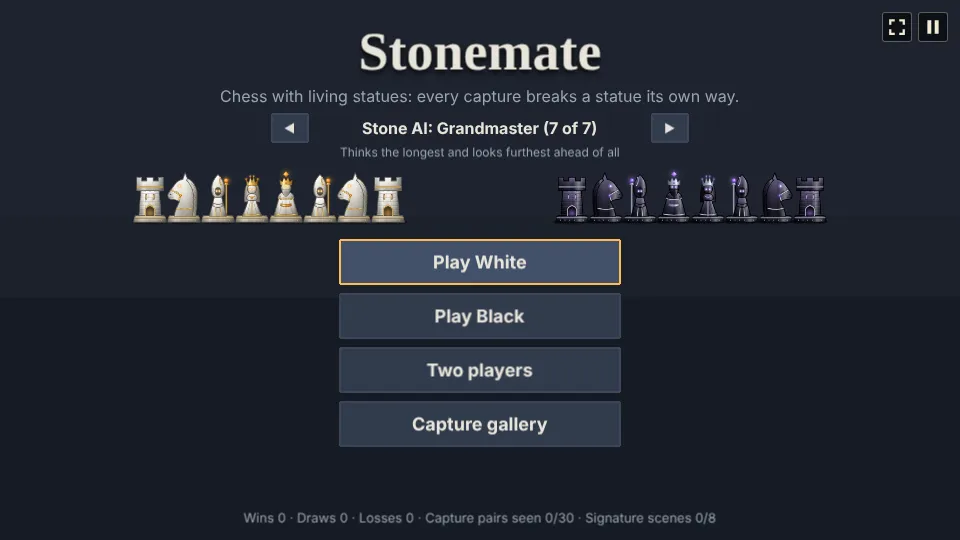
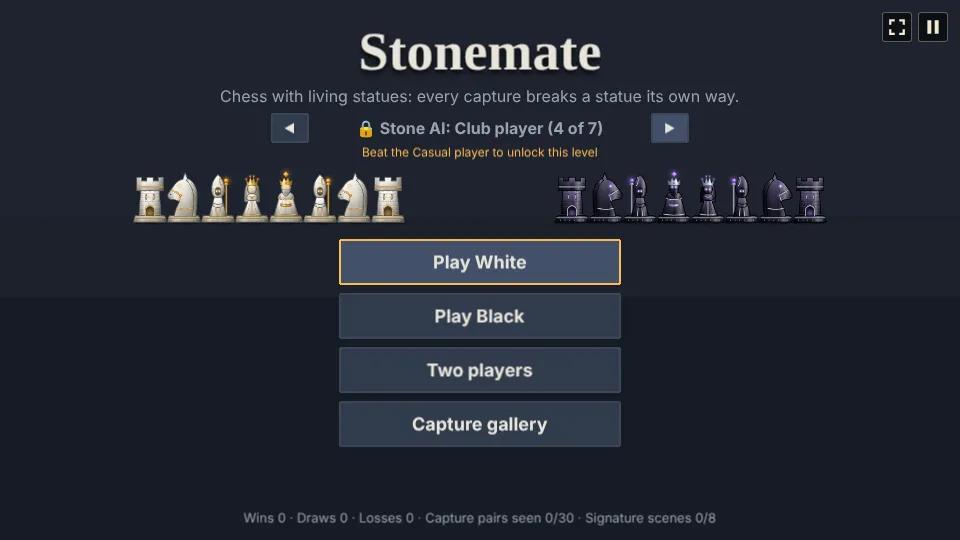
Stonemate: unlock each AI level above 3 by beating the one below
Levels 1 to 3 stay open; Club player, Expert, Master and Grandmaster each open once the level
below is beaten (the strongest level beaten is kept as `best` in the stats). A locked level shows
a lock and which level to beat, Play White and Play Black refuse it, and a win that opens a level
says so and moves the menu's pick up to it.

Requested by **Chriszly**

Created with Claude Opus 5.5 (low)

Changed region(s): [[0.3438, 0.2074, 0.6562, 0.2963], [0.6562, 0.2074, 0.7188, 0.2667]]

diff --git a/games/stonemate/src/scenes/GameScene.ts b/games/stonemate/src/scenes/GameScene.ts
@@ -6,7 +6,7 @@ import { award } from '../../../../shared/trophies';
 import { SFX, SONG } from '../audio';
 import { chooseMove } from '../game/ai';
 import { KINDS, type Kind, type Move, Flag, Position, type Result, type Side, VICTIMS, kindOf, moveText, sideOf } from '../game/chess';
-import { HARD_LEVEL, LEVELS, PAIR_COUNT, QUICK_MATE, SIGNATURES, clampLevel, type LevelId, pairKey } from '../game/rules';
+import { HARD_LEVEL, LEVELS, PAIR_COUNT, QUICK_MATE, SIGNATURES, clampLevel, type LevelId, pairKey, unlockedLevel } from '../game/rules';
 import { thinkDeep } from '../game/think';
 import { type Mode, type Stats, loadGame, loadStats, saveGame, saveStats } from '../game/save';
 import { t, type TextKey } from '../i18n';
@@ -100,7 +100,8 @@ export class GameScene extends Phaser.Scene {
     }
     this.quick = prefs.quick === true;
     // Until a level is picked on the menu, the hub's difficulty picks it.
-    this.level = clampLevel(prefs.level);
+    // A locked level can't be the pick (the hub's Hard picks 4 before 3 is beaten).
+    this.level = Math.min(clampLevel(prefs.level), unlockedLevel(this.stats.best));
     this.input.on('pointerdown', (p: Phaser.Input.Pointer, over: Phaser.GameObjects.GameObject[]) => {
       if (!over.length) this.onBoardTap(p.worldX, p.worldY);
     });
@@ -116,6 +117,8 @@ export class GameScene extends Phaser.Scene {
       mode: this.mode,
       player: this.player,
       level: this.gameLevel,
+      /** The highest level open to play: 3, then one past the strongest level beaten. */
+      unlocked: unlockedLevel(this.stats.best),
       turn: this.pos.turn,
       plies: this.pos.history.length,
       busy: this.busy,
@@ -187,8 +190,8 @@ export class GameScene extends Phaser.Scene {
     const saved = loadGame();
     const ids: [string, string, () => void][] = [];
     if (saved && saved.moves.length) ids.push(['continue', t('continue', { n: Math.ceil(saved.moves.length / 2) }), () => this.startGame(saved.mode, saved.player, saved.moves, saved.level)]);
-    ids.push(['play-white', t('playWhite'), () => this.startGame('ai', 'w')]);
-    ids.push(['play-black', t('playBlack'), () => this.startGame('ai', 'b')]);
+    ids.push(['play-white', t('playWhite'), () => this.startAi('w')]);
+    ids.push(['play-black', t('playBlack'), () => this.startAi('b')]);
     ids.push(['two-players', t('twoPlayers'), () => this.startGame('duo', 'w')]);
     ids.push(['gallery', t('gallery'), () => this.showGallery()]);
     const gap = Math.min(54, (this.H - 290) / ids.length);
@@ -205,8 +208,11 @@ export class GameScene extends Phaser.Scene {
     const blurb = this.text(cx, y + 24, '', 12, C.dim).setOrigin(0.5);
     const show = () => {
       const id = LEVELS[this.level - 1].id;
-      name.setText(t('levelLine', { level: t(LEVEL_TEXT[id]), n: this.level, of: LEVELS.length }));
-      blurb.setText(t(LEVEL_BLURB[id]));
+      const locked = this.level > unlockedLevel(this.stats.best);
+      name.setText(t(locked ? 'levelLocked' : 'levelLine', { level: t(LEVEL_TEXT[id]), n: this.level, of: LEVELS.length }));
+      name.setColor(hex(locked ? C.dim : C.ink));
+      blurb.setText(locked ? t('unlockHint', { level: t(LEVEL_TEXT[LEVELS[this.level - 2].id]) }) : t(LEVEL_BLURB[id]));
+      blurb.setColor(hex(locked ? C.amber : C.dim));
     };
     const step = (by: number) => {
       const next = this.level + by;
@@ -229,6 +235,15 @@ export class GameScene extends Phaser.Scene {
     } catch {
       // Not saved; the choice still holds for this visit.
     }
+  }
+
+  /** A new game against the Stone AI at the menu's level, unless that level is still locked. */
+  private startAi(player: Side) {
+    if (this.level > unlockedLevel(this.stats.best)) {
+      ui('refuse');
+      return;
+    }
+    this.startGame('ai', player);
   }
 
   startGame(mode: Mode, player: Side, moves: string[] = [], level = this.level) {
@@ -554,6 +569,8 @@ export class GameScene extends Phaser.Scene {
 
   private finish() {
     saveGame(null);
+    /** The level this win just opened, by name. */
+    let unlocked = '';
     const r = this.result!;
     const s = this.stats;
     if (this.mode === 'ai') {
@@ -565,6 +582,18 @@ export class GameScene extends Phaser.Scene {
         if (mine <= QUICK_MATE) this.trophy('quickMate');
         if (this.gameLevel >= HARD_LEVEL) this.trophy('hardWin');
         if (this.gameLevel === LEVELS.length) this.trophy('grandmasterWin');
+        // Beating a level opens the next one (from level 3 up).
+        const before = unlockedLevel(s.best);
+        s.best = Math.max(s.best, this.gameLevel);
+        const now = unlockedLevel(s.best);
+        if (now > before) {
+          unlocked = t(LEVEL_TEXT[LEVELS[now - 1].id]);
+          // The menu's arrows move on to the new level too.
+          if (this.level < now) {
+            this.level = now;
+            this.savePrefs();
+          }
+        }
       } else s.losses++;
       saveStats(s);
     }
@@ -574,7 +603,8 @@ export class GameScene extends Phaser.Scene {
     const cx = this.board.x + 4 * S;
     const cy = this.board.y + 4 * S;
     const bg = this.add.rectangle(cx, cy, S * 5.6, S * 2.2, C.panel, 0.94).setStrokeStyle(2, C.amber).setDepth(190);
-    const txt = this.text(cx, cy - S * 0.5, this.statusLine(), 20, C.ink, { fontStyle: 'bold', align: 'center', wordWrap: { width: S * 5.2 } }).setOrigin(0.5).setDepth(191);
+    const line = unlocked ? `${this.statusLine()}\n${t('unlockedNow', { level: unlocked })}` : this.statusLine();
+    const txt = this.text(cx, cy - S * 0.5, line, unlocked ? 17 : 20, C.ink, { fontStyle: 'bold', align: 'center', wordWrap: { width: S * 5.2 } }).setOrigin(0.5).setDepth(191);
     this.add.container(0, 0, [bg, txt]).setDepth(190);
     this.button('new-game', cx - S * 1.3, cy + S * 0.5, S * 2.4, 40, t('newGame'), () => this.startGame(this.mode, this.player), true);
     this.button('result-menu', cx + S * 1.3, cy + S * 0.5, S * 2.4, 40, t('menu'), () => this.showMenu());

diff --git a/games/stonemate/src/howToPlay.ts b/games/stonemate/src/howToPlay.ts
@@ -23,7 +23,7 @@ const en: HowToPlay = {
     'Eight pairs have a scene of their own, like a pawn toppling a queen or two knights jousting: the gallery marks them with a star.',
     'A pawn on the far row becomes a queen, rook, bishop or knight of your choice.',
     'Castle by moving your king two squares towards a rook that has not moved yet.',
-    'Pick the Stone AI’s level with the arrows on the menu, from Beginner to Grandmaster; the hub’s difficulty picks the first one.',
+    'Pick the Stone AI’s level with the arrows on the menu, from Beginner to Grandmaster. The first three are open; beat a level to unlock the next.',
     'A game is saved after every move, so Continue on the menu picks it up again.',
   ],
 };
@@ -50,7 +50,7 @@ const de: HowToPlay = {
     'Acht Paare haben eine eigene Szene, etwa ein Bauer, der eine Dame stürzt, oder zwei Springer im Tjost: Die Galerie markiert sie mit einem Stern.',
     'Ein Bauer auf der letzten Reihe wird zu Dame, Turm, Läufer oder Springer deiner Wahl.',
     'Rochiere, indem du den König zwei Felder auf einen Turm zu ziehst, der noch nicht gezogen hat.',
-    'Wähle die Stufe der Stein-KI mit den Pfeilen im Menü, vom Anfänger bis zum Großmeister; die Schwierigkeit der Startseite wählt die erste.',
+    'Wähle die Stufe der Stein-KI mit den Pfeilen im Menü, vom Anfänger bis zum Großmeister. Die ersten drei sind offen; besiege eine Stufe, um die nächste freizuschalten.',
     'Eine Partie wird nach jedem Zug gespeichert, also setzt Fortsetzen im Menü sie wieder fort.',
   ],
 };

diff --git a/games/stonemate/src/game/save.ts b/games/stonemate/src/game/save.ts
@@ -25,6 +25,8 @@ export interface Stats {
   pairs: string[];
   /** Signature scenes seen in play, by id. */
   scenes: string[];
+  /** The strongest AI level beaten (0 for none), which opens the level above it. */
+  best: number;
 }
 
 const GAME_KEY = 'stonemate-game';
@@ -55,6 +57,6 @@ export const saveGame = (g: SavedGame | null) => write(GAME_KEY, g);
 
 export function loadStats(): Stats {
   const s = read<Partial<Stats>>(STATS_KEY) ?? {};
-  return { wins: s.wins ?? 0, losses: s.losses ?? 0, draws: s.draws ?? 0, pairs: s.pairs ?? [], scenes: s.scenes ?? [] };
+  return { wins: s.wins ?? 0, losses: s.losses ?? 0, draws: s.draws ?? 0, pairs: s.pairs ?? [], scenes: s.scenes ?? [], best: typeof s.best === 'number' ? s.best : 0 };
 }
 export const saveStats = (s: Stats) => write(STATS_KEY, s);

diff --git a/games/stonemate/src/game/rules.ts b/games/stonemate/src/game/rules.ts
@@ -27,6 +27,12 @@ export const defaultLevel = () => byDifficulty(2, 3, 4);
 /** Clamps a stored level number to 1 to 7. */
 export const clampLevel = (n: unknown) => (typeof n === 'number' && Number.isInteger(n) ? Math.min(LEVELS.length, Math.max(1, n)) : defaultLevel());
 
+/** Levels 1 to 3 are always open; each one above opens once the level below it is beaten. */
+export const OPEN_LEVELS = 3;
+
+/** The highest level open to play, given the strongest level beaten (0 for none). */
+export const unlockedLevel = (best: number) => Math.min(LEVELS.length, Math.max(OPEN_LEVELS, best + 1));
+
 /** Beating this level or a stronger one earns `hardWin` (Club player, the old Hard). */
 export const HARD_LEVEL = 4;
 

diff --git a/games/stonemate/src/i18n/de.ts b/games/stonemate/src/i18n/de.ts
@@ -6,6 +6,9 @@ const de: Translation<typeof en> = {
   title: 'Stonemate',
   tagline: 'Schach mit lebenden Statuen: Jeder Schlag zerbricht eine Statue auf eigene Art.',
   levelLine: 'Stein-KI: {level} ({n} von {of})',
+  levelLocked: '🔒 Stein-KI: {level} ({n} von {of})',
+  unlockHint: 'Freischalten: {level} besiegen',
+  unlockedNow: 'Freigeschaltet: {level}',
   levelBeginner: 'Anfänger',
   levelNovice: 'Neuling',
   levelCasual: 'Gelegenheitsspieler',

diff --git a/games/stonemate/src/i18n/en.ts b/games/stonemate/src/i18n/en.ts
@@ -3,6 +3,9 @@ const en = {
   title: 'Stonemate',
   tagline: 'Chess with living statues: every capture breaks a statue its own way.',
   levelLine: 'Stone AI: {level} ({n} of {of})',
+  levelLocked: '🔒 Stone AI: {level} ({n} of {of})',
+  unlockHint: 'Beat the {level} to unlock this level',
+  unlockedNow: 'Unlocked: {level}',
   levelBeginner: 'Beginner',
   levelNovice: 'Novice',
   levelCasual: 'Casual player',

diff --git a/games/stonemate/AGENTS.md b/games/stonemate/AGENTS.md
@@ -14,7 +14,12 @@ the game, and keep it up to date in the same PR as the change (see the root `AGE
   capture or pawn move) and threefold repetition.
 - **Stone AI levels:** seven, in `LEVELS` (`game/rules.ts`), picked on the menu with the
   `level-down` and `level-up` arrows and saved as `level` in `stonemate-prefs`. Until one is picked,
-  `defaultLevel()` follows the hub's difficulty: Easy is 2, Normal 3, Hard 4. A game keeps the level
+  `defaultLevel()` follows the hub's difficulty: Easy is 2, Normal 3, Hard 4. Levels 1 to 3
+  (`OPEN_LEVELS`) are always open; each one above opens when the player beats the level below it
+  (`unlockedLevel(stats.best)`). The arrows still step onto a locked level, which shows a lock and
+  the level to beat, and Play White and Play Black refuse it (`startAi`); a pick above the open
+  levels is lowered to the highest open one at boot. A win that opens a level says so in the result
+  box and moves the menu's pick up to it. A game keeps the level
   it started on (`gameLevel`, saved with the game). The names are Beginner, Novice, Casual player, Club player, Expert, Master and Grandmaster. Each level beat the
   one below it in AI-against-AI matches (a throwaway script, not in the repo).
 - **Levels 1 to 4** (`game/ai.ts`, `shallow` in `LEVELS`): negamax with alpha-beta, material plus
@@ -80,7 +85,8 @@ the game, and keep it up to date in the same PR as the change (see the root `AGE
 
 - `stonemate-game`: the game under way, `{ mode: 'ai' | 'duo', player: 'w' | 'b', level: 1-7, moves: ['e2e4', ...] }`;
   removed when a game ends. A save from before the levels has no `level` and plays the menu's.
-- `stonemate-stats`: `{ wins, losses, draws, pairs: ['nb', ...], scenes: ['joust', ...] }`.
+- `stonemate-stats`: `{ wins, losses, draws, pairs: ['nb', ...], scenes: ['joust', ...], best }`,
+  `best` being the strongest AI level beaten (0 for none), which opens the levels above 3.
 - `stonemate-prefs`: `{ quick, level }`, the Captures button and the menu's AI level.
 - `stonemate-trophies`: kept by `shared/trophies.ts`.
 
@@ -88,7 +94,7 @@ the game, and keep it up to date in the same PR as the change (see the root `AGE
 
 The dev build puts `game` on `window`; the playthrough reads `game.scene.getScene('Game')`:
 
-- `state`: `screen`, `mode`, `player`, `level` (the game's AI level), `turn`, `plies`, `busy`, `selected`, `result`, `inCheck`,
+- `state`: `screen`, `mode`, `player`, `level` (the game's AI level), `unlocked` (the highest open level), `turn`, `plies`, `busy`, `selected`, `result`, `inCheck`,
   `captures`, `lastCapture`, `promo`, and `legal` (the legal moves as `e2e4` text while a person is to
   move).
 - `buttons`: every button by id (`level-down`, `level-up`, `play-white`, `play-black`, `two-players`, `gallery`, `continue`,

diff --git a/README.md b/README.md
@@ -78,7 +78,7 @@ The hub's **Settings** button opens the settings every game shares. They are sav
   | Ninefold | 5 hints a Classic board, 4 hearts a Delve run | 2 hints a Classic board, 2 hearts a Delve run |
   | Augury | 4 hearts in Endless and the drafts, 4 minutes of Blitz | 2 hearts in Endless and the drafts, 2½ minutes of Blitz |
   | Mazewright | 25 cabbages, and foes have 20% less health | 10 cabbages, and foes have 25% more health |
-  | Stonemate | the Stone AI starts on Novice (level 2 of 7), which looks one move ahead and often picks a weaker move | the Stone AI starts on Club player (level 4 of 7), which looks three moves ahead and always plays its best; the menu picks any of 7 levels |
+  | Stonemate | the Stone AI starts on Novice (level 2 of 7), which looks one move ahead and often picks a weaker move | the Stone AI starts on Club player (level 4 of 7), which looks three moves ahead and always plays its best, once beating level 3 has unlocked it; the menu picks any open level, and each win opens the next |
 
 - **Frame rate (FPS)**: the most frames per second a game draws, 30 to 320 (60 by default).
 - **Show FPS**: a readout of the frame rate in each game's corner.

diff --git a/games/stonemate/README.md b/games/stonemate/README.md
@@ -22,9 +22,11 @@ or the same position three times).
   strike and play the fall at double speed.
 - **Menu** leaves the game; it is saved after every move, and **Continue game** on the menu picks it
   up again.
-- The arrows on the menu pick the Stone AI's level, from 1 to 7. Until you pick one, the hub's
-  difficulty picks it (Easy is Novice, Normal Casual player, Hard Club player). A saved game keeps
-  the level it was started on.
+- The arrows on the menu pick the Stone AI's level, from 1 to 7. Levels 1 to 3 are open from the
+  start; each level above opens once you beat the one below it (a locked level shows a lock and
+  which level to beat). Until you pick one, the hub's difficulty picks the level (Easy is Novice,
+  Normal and Hard Casual player, or Club player once it is open). A saved game keeps the level it
+  was started on.
 
   | Level | How it plays |
   | --- | --- |
